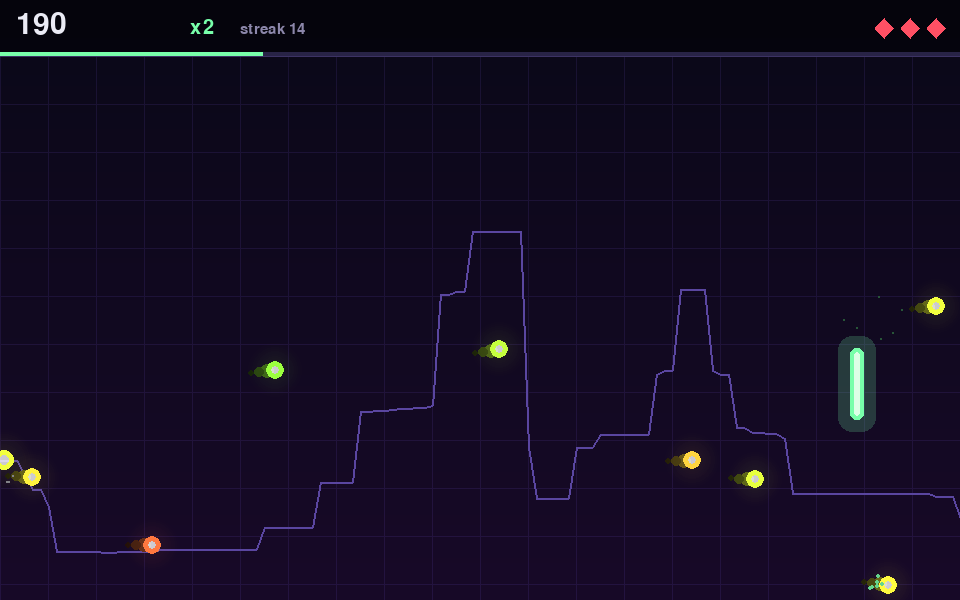
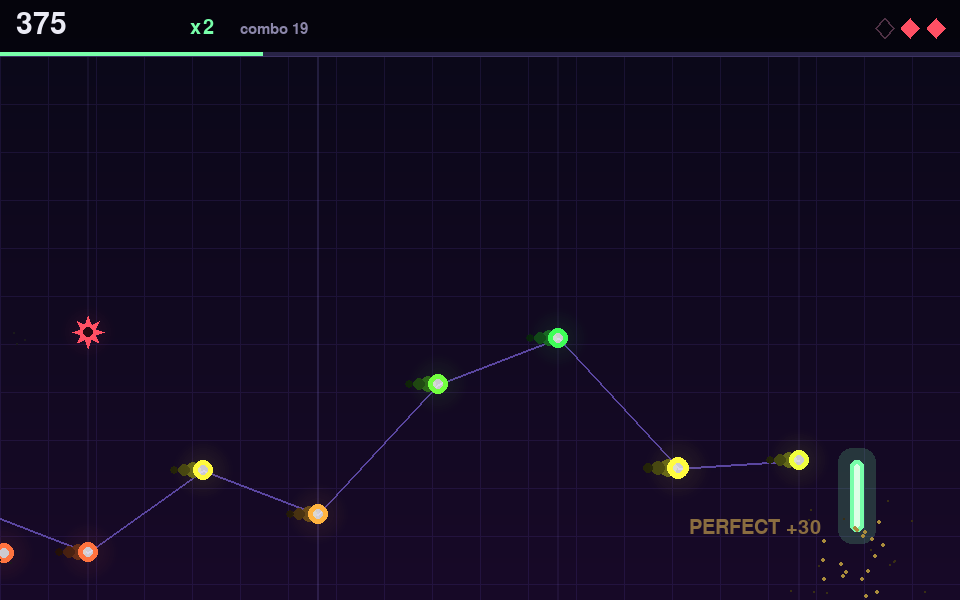
Update README and demo images for catch mode, beat charts and audio delay
Claude-Session: https://claude.ai/code/session_01L4WjoLegBM1YT2qCVgrfrX

diff --git a/README.md b/README.md
@@ -1,10 +1,10 @@
 # 🎵 Pitch Dodge
 
-**Dodge the melody.** Pitch Dodge turns any song into a bullet-dodging game: it
-listens to the track, and every time a note lands it fires a projectile from the
-left edge of the screen at the height of the current pitch. Low notes come in
-low and warm-coloured, high notes come in high and cool. Steer your paddle out
-of the way, build a streak, and survive to the end of the song.
+**Catch the melody, dodge the drums.** Pitch Dodge turns any song into a
+rhythm game. It listens to the track and charts it: glowing notes ride the
+melody's pitch toward your paddle and arrive exactly on the beat, so catching
+them means tracing the tune up and down. Each catch plays a note in the song's
+key. Red spikes land on the big drum hits; touching one costs a life.
 
 ![Gameplay](docs/demo.gif)
 
@@ -92,23 +92,31 @@ The original pygame window still works:
 
 Switching to another tab or window pauses the game.
 
-- Every note that gets past your paddle without touching it scores **10 points**,
-  or **15** for a near miss.
-- Every 10 dodges in a row raises your **multiplier** (up to ×8). Getting hit
-  resets it.
-- A hit costs a **life** and makes you briefly invulnerable. Lose them all and it's
-  game over; clear the song for a bonus of 250 per life left.
-- Notes speed up and come more often as the song goes on.
-- The faint line across the screen is the song's recent melody, the path the
-  notes are being fired along.
+- **Catch** the glowing notes: each scores **10**, or **15** for a PERFECT
+  (caught near the middle of the paddle), times your multiplier.
+- Every 10 catches in a row raises the **multiplier** (up to ×8). Missing a
+  note resets the combo but doesn't cost a life.
+- **Dodge** the red spikes. A hit costs a **life** and the combo, and makes you
+  briefly invulnerable. Lose them all and it's game over; finish the song for a
+  bonus of 250 per life left.
+- The purple line is the melody path through the upcoming notes; faint
+  vertical lines are the beats coming toward you.
+- Quiet parts of a song are calmer; loud parts fill in more of the beat.
 - Top 5 scores are kept per song and difficulty in
   `~/.local/share/pitch_dodge/scores.json`.
 
-| Difficulty | Lives | Notes | Speed |
+| Difficulty | Lives | Notes land on | Hazards |
 | --- | --- | --- | --- |
-| easy | 5 | sparse | gentle |
-| normal | 3 | follows the beat | ramps up |
-| hard | 2 | nearly every onset | fast, steep angles |
+| easy | 5 | beats | only the biggest hits |
+| normal | 3 | beats and half beats | strong hits |
+| hard | 3 | down to quarter beats | most hits, faster scroll |
+
+### Audio delay (AirPods and other Bluetooth headphones)
+
+Bluetooth headphones play sound 150–250 ms late, which makes notes seem to
+arrive early. On the menu, press **Calibrate** and tap **Space** on each click
+you hear; the game measures your delay and remembers it. You can also drag the
+**Audio delay** slider by hand. In the desktop version use `--latency-ms 200`.
 
 ![Title screen](docs/title.png)
 
@@ -116,35 +124,40 @@ Switching to another tab or window pauses the game.
 
 ```
 pitch-dodge serve [--port N] [--host ADDR] [--songs DIR] [--no-browser] [--no-cache]
-pitch-dodge [song] [-d {easy,normal,hard}] [--mute] [--seed N] [--no-cache]
+pitch-dodge [song] [-d {easy,normal,hard}] [--mute] [--latency-ms MS] [--no-cache]
 ```
 
-In the desktop version, `--seed` makes note angles repeatable (in the browser,
-add `?seed=N` to the URL). If no audio device is available the desktop game
-runs silently instead of crashing.
+If no audio device is available the desktop game runs silently instead of
+crashing. Add `?autoplay` to the browser URL to watch a bot play.
 
 ## How it works
 
 1. **Analysis** (`pitch_dodge/analysis.py`): the song is loaded with
-   [librosa](https://librosa.org/). Pitch is tracked with `piptrack`, quiet frames
-   are dropped, gaps are filled, the curve is median-smoothed on a log scale and
-   normalised between its 5th and 95th percentiles. Onsets decide when notes are
-   fired; RMS loudness drives the background pulse.
-2. **Rules** (`pitch_dodge/world.py`): pure Python with no pygame, so it's fully
-   unit tested. Notes move in sub-steps so even fast ones can't tunnel through
-   the paddle on a slow frame.
-3. **Clock** (`pitch_dodge/audio.py`): the game runs on the music's playback
-   position, not the wall clock, so the notes stay in sync with what you hear,
-   including across pauses.
-4. **Drawing** (`pitch_dodge/render.py`) and the **state machine**
+   [librosa](https://librosa.org/). It finds the beat, splits the sound into
+   harmonic (melody, chords) and percussive (drums) parts and measures onset
+   strength in each, tracks pitch (smoothed on a log scale), finds the
+   dominant pitch class over time, and measures loudness. Results are cached.
+2. **Chart** (`pitch_dodge/chart.py`): like a rhythm-game chart. Catch notes
+   go on beat-grid points with strong harmonic onsets, at the melody's height
+   (with impossible jumps squashed); hazards go on the strongest drum hits,
+   away from the melody. Difficulty sets how fine the grid goes; the song's
+   loudness decides how much of it is used at each moment.
+3. **Rules** (`pitch_dodge/world.py`): pure Python with no pygame, so it's fully
+   unit tested. A note's position is computed from song time
+   (`x = paddle_x - (arrival - now) * speed`), so it crosses the paddle exactly
+   on its beat at any frame rate.
+4. **Clock** (`pitch_dodge/audio.py`): the game runs on the music's playback
+   position (minus your audio delay), not the wall clock, with a count-in
+   before the music so the first notes can land on the first beats.
+5. **Drawing** (`pitch_dodge/render.py`) and the **state machine**
    (`pitch_dodge/app.py`): title, playing, paused and results screens.
    Sound effects are synthesised at start-up (`pitch_dodge/sfx.py`).
-5. **Browser version**: `pitch_dodge/server.py` is a small standard-library
+6. **Browser version**: `pitch_dodge/server.py` is a small standard-library
    HTTP server bound to localhost. It serves the page, the song list, uploads,
-   high scores, and each song's analysis as JSON. `pitch_dodge/web/game.js`
-   is a port of the rules and drawing to canvas. Its clock is the Web Audio
-   playback position, so pausing suspends the music and the game together.
-   The rules mirror `world.py`; change both together.
+   high scores, and each song's charts as JSON. `pitch_dodge/web/game.js`
+   plays the charts on a canvas. Its clock is the Web Audio playback position,
+   so pausing suspends the music and the game together. Its rules mirror
+   `world.py`; change both together.
 
 ## Development
 
